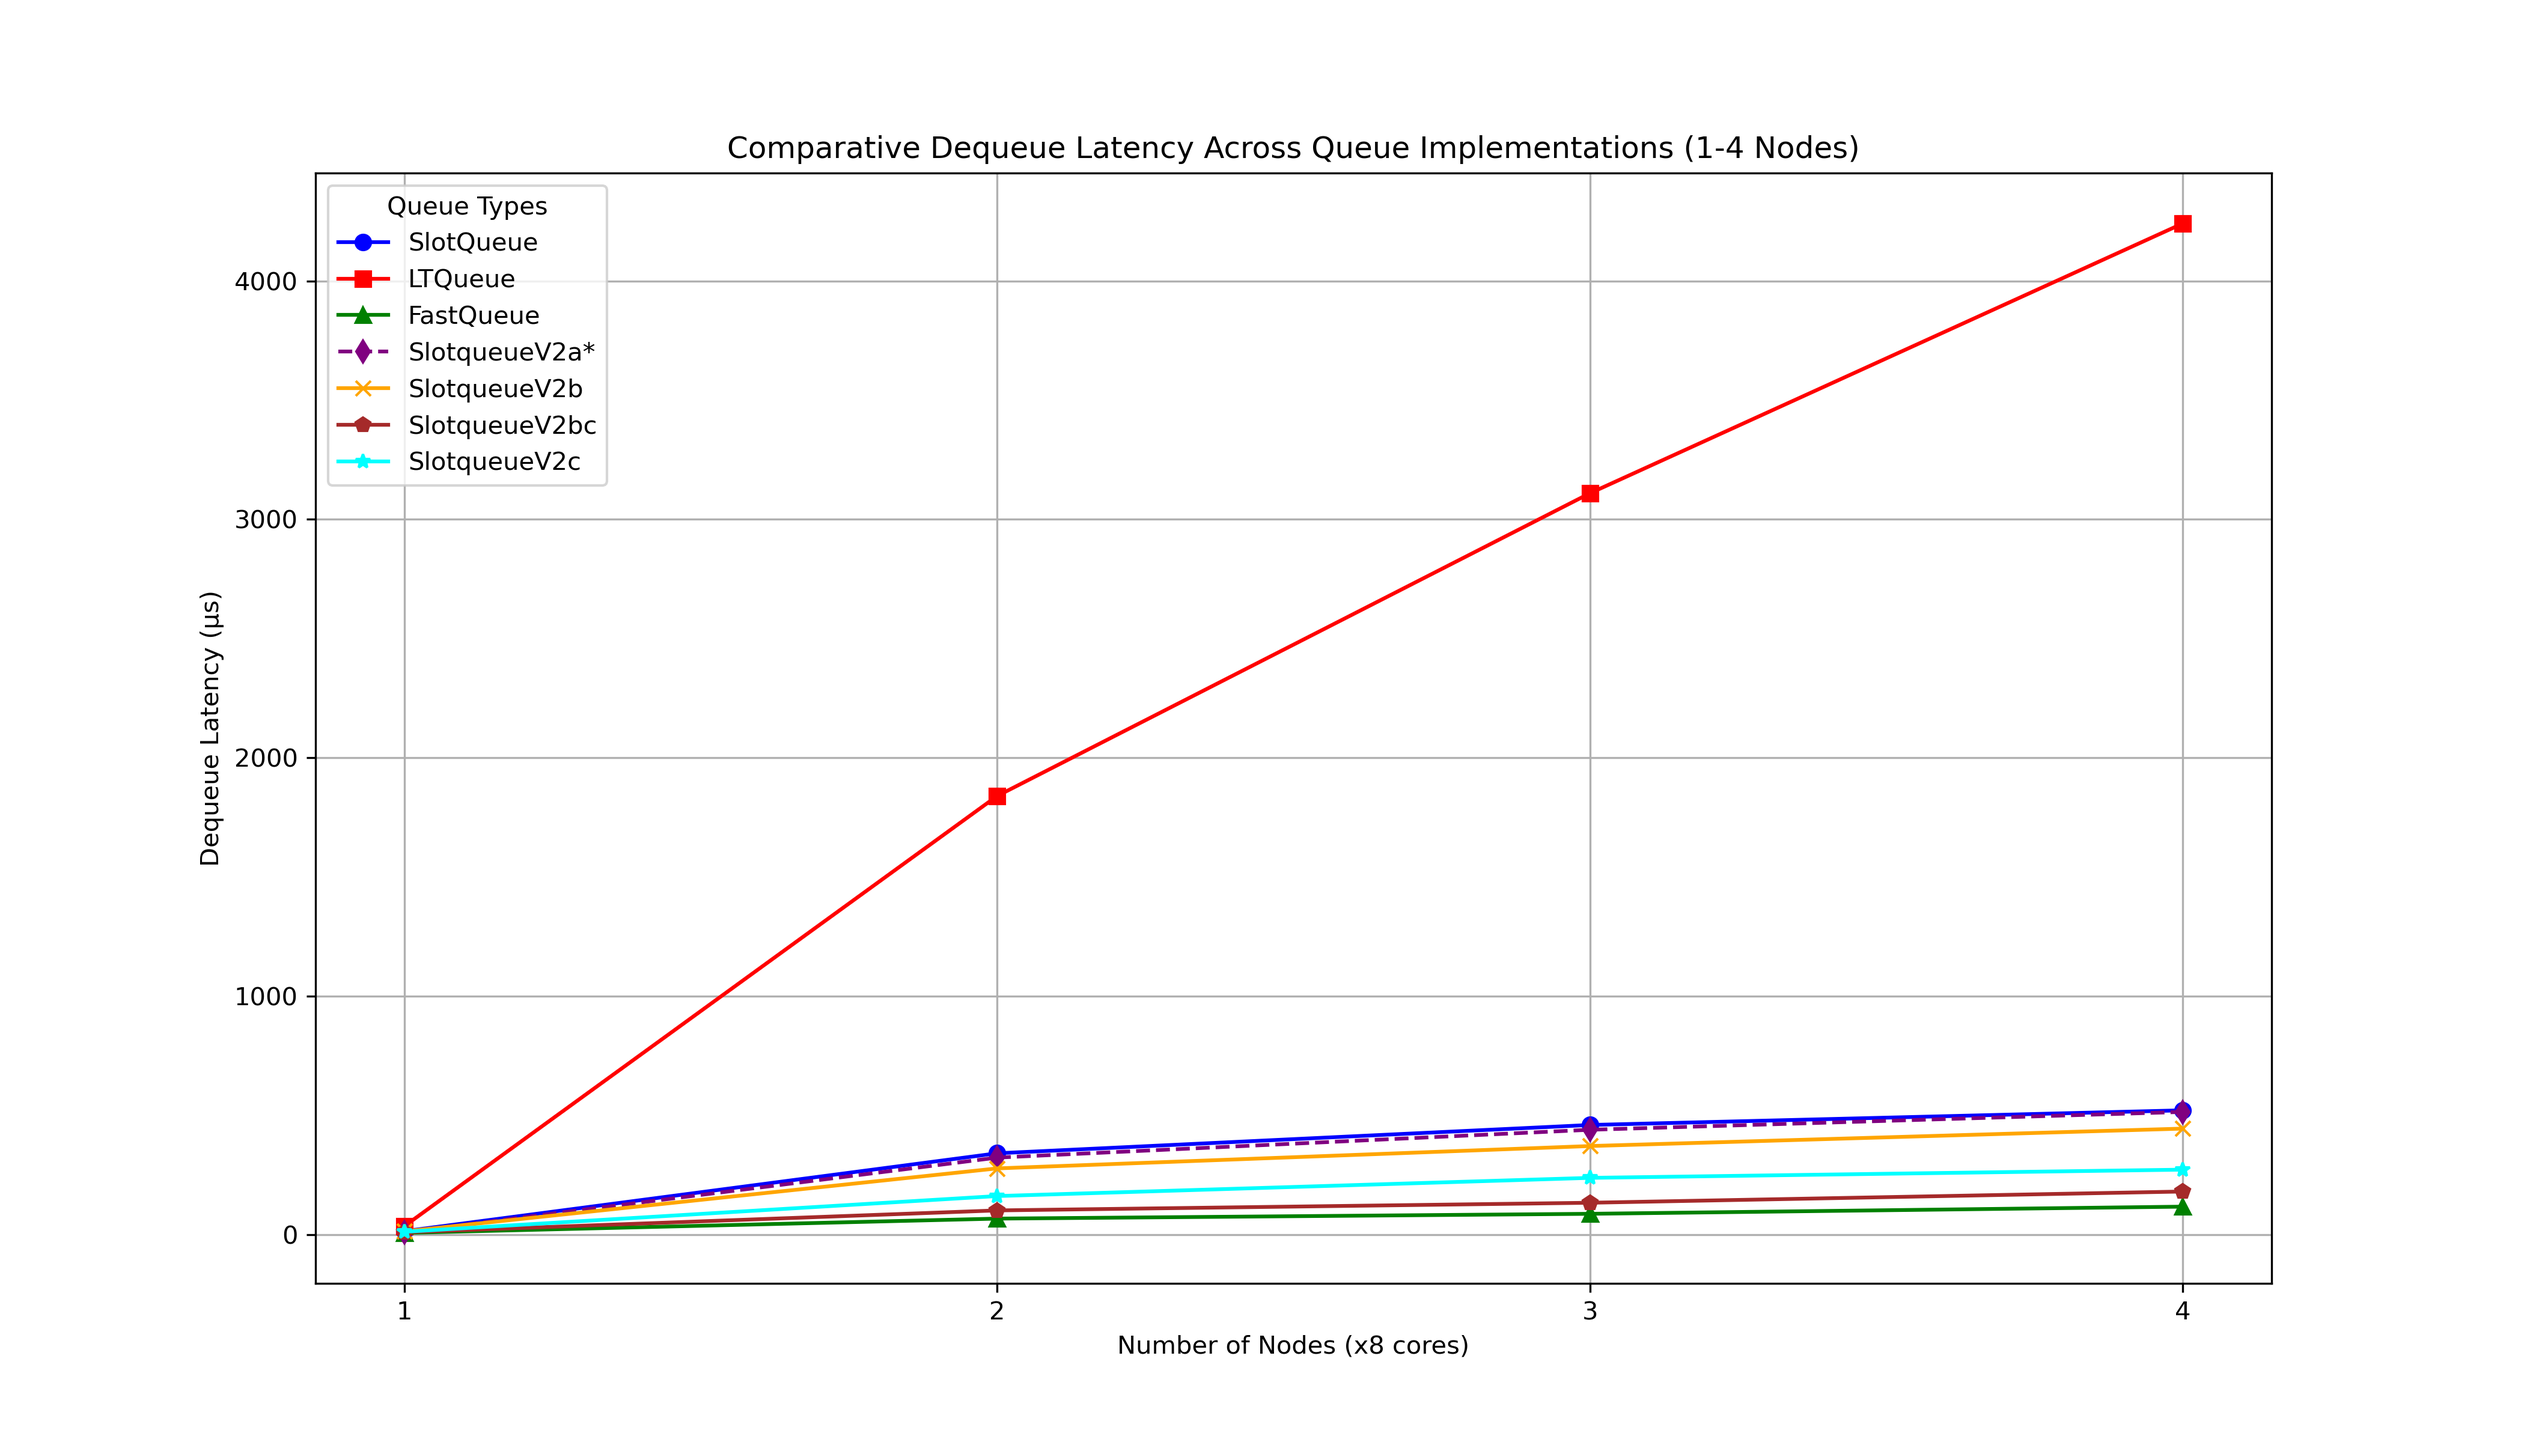
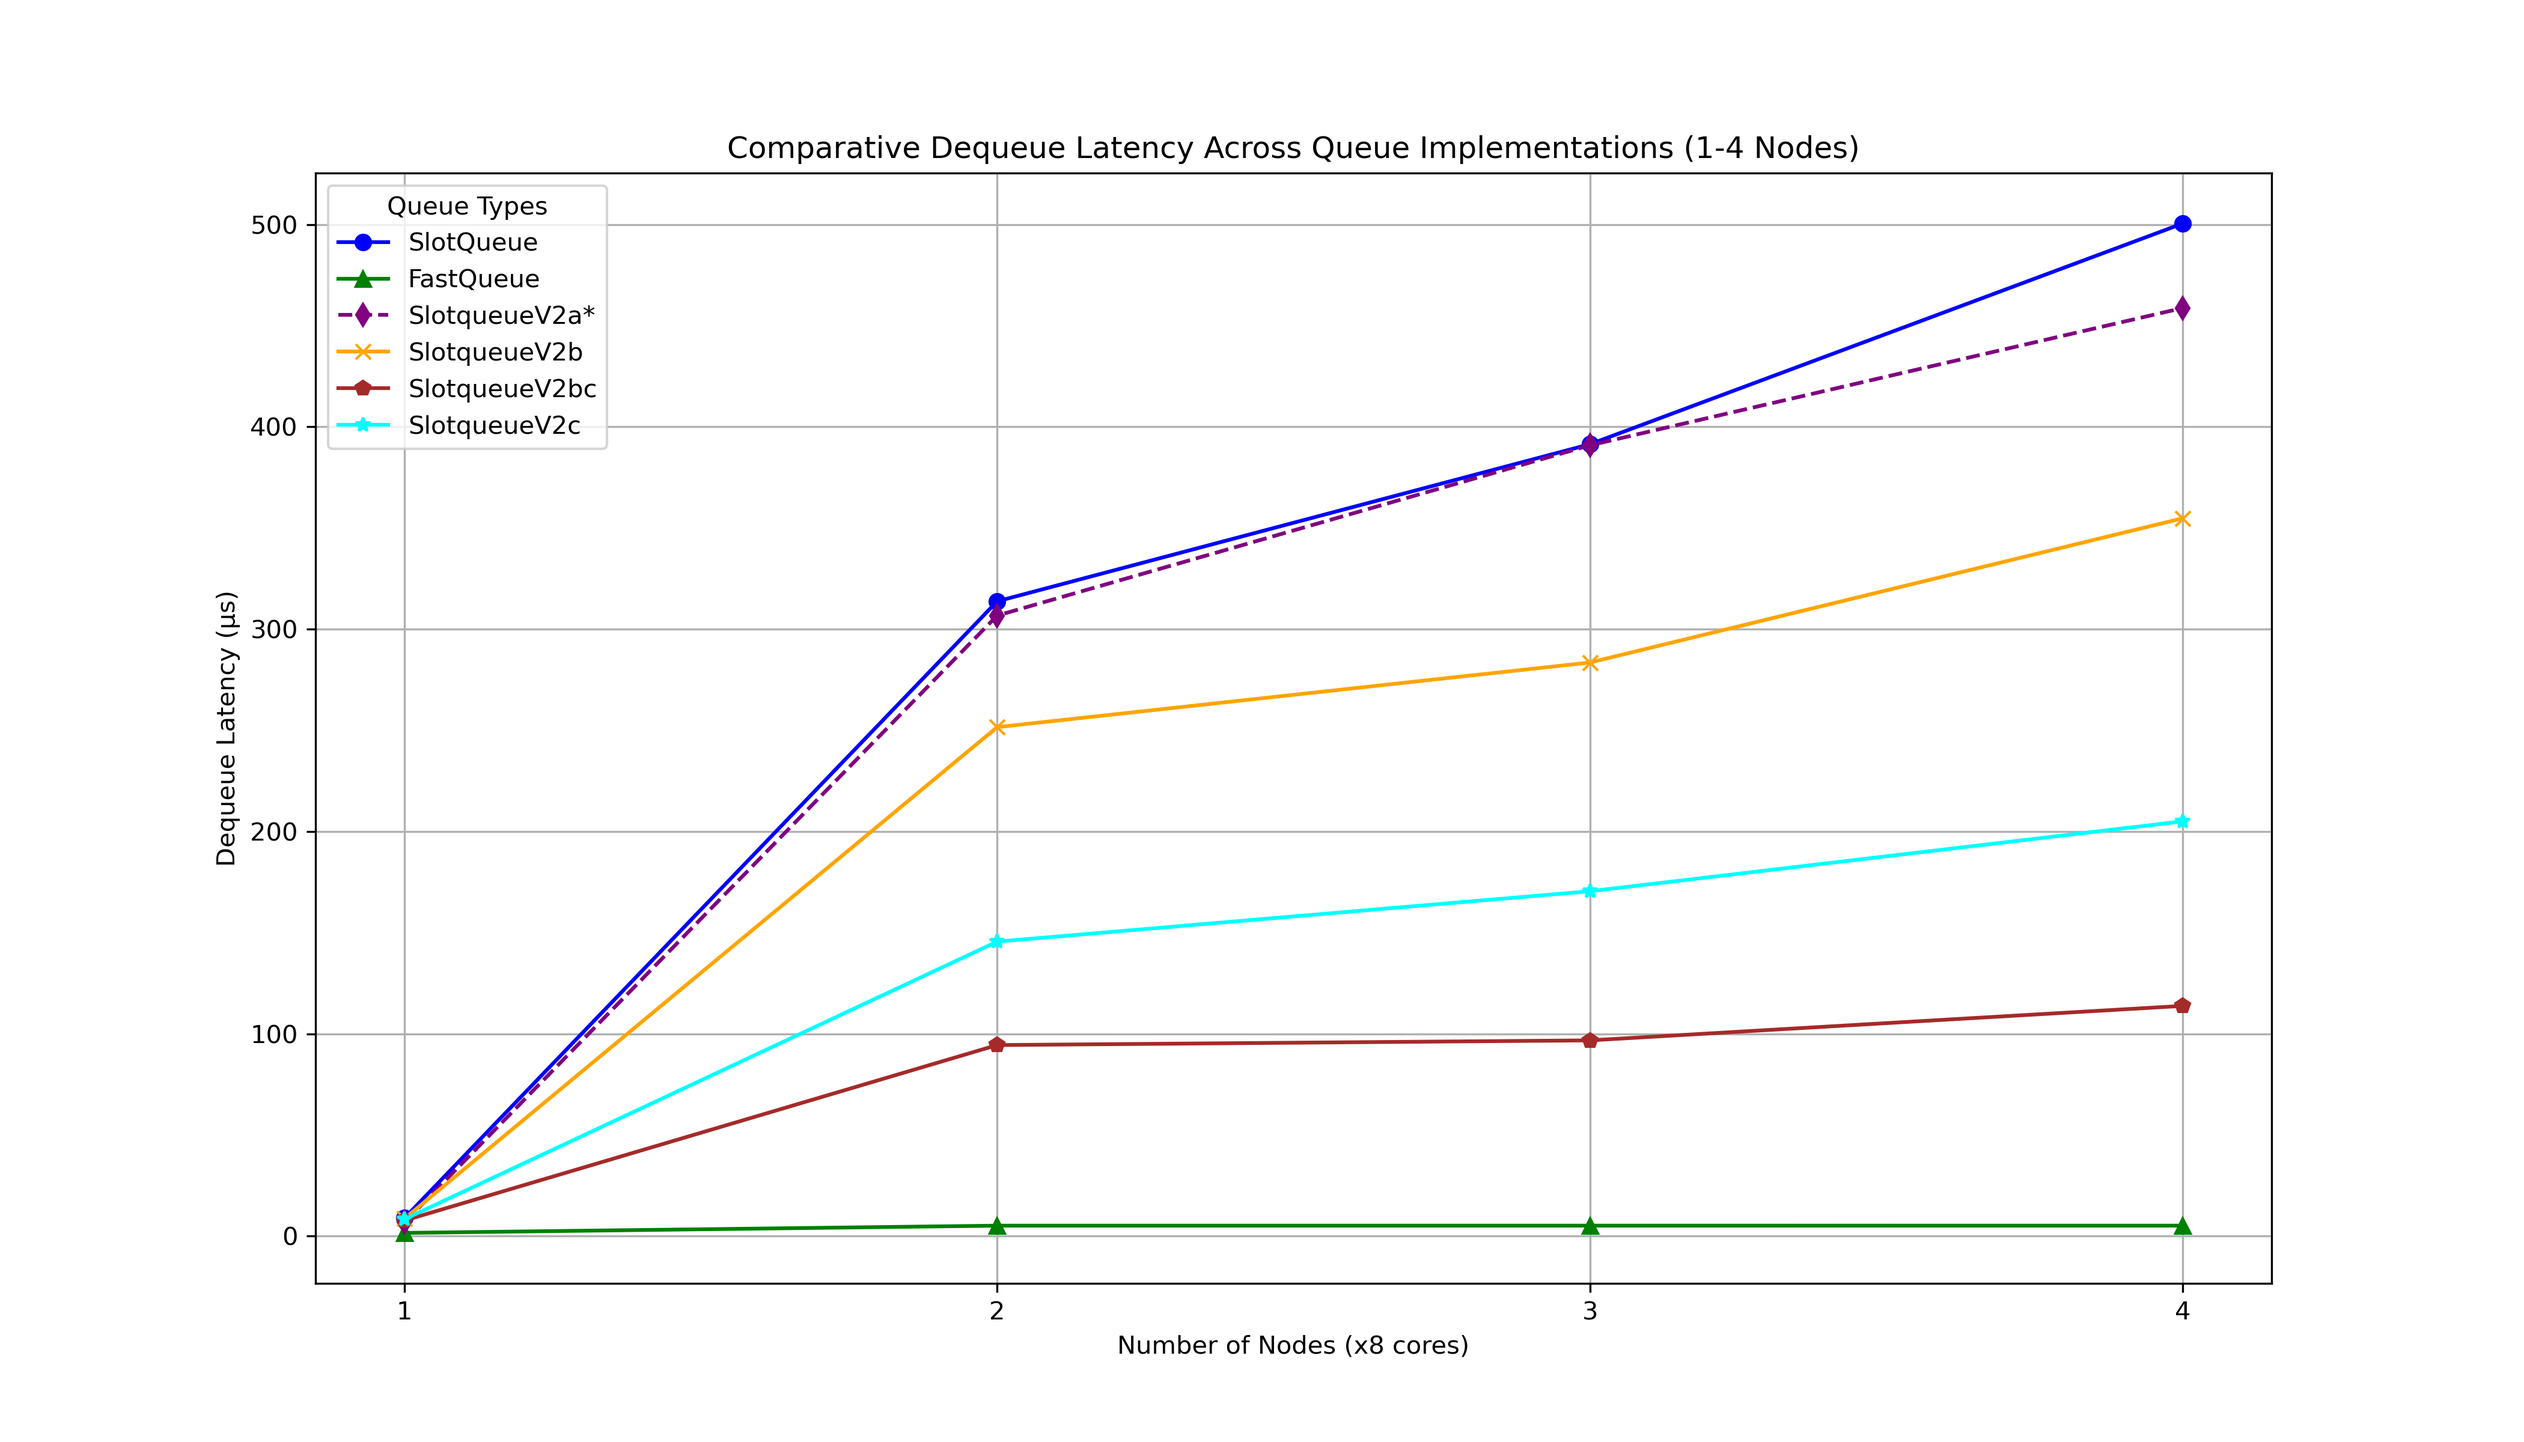
bench: fix fastqueue non-rdma-cluster benchmark

diff --git a/benches/microbenchmarks/single-one-queue/non-rdma-cluster/by-nodes.py b/benches/microbenchmarks/single-one-queue/non-rdma-cluster/by-nodes.py
@@ -4,60 +4,63 @@ import os
 # Ensure the output directory exists
 output_dir = "non-rdma-cluster/all/by-nodes"
 os.makedirs(output_dir, exist_ok=True)
+
 # Data for nodes and queue types
 nodes = [1, 2, 3, 4]
+
 # Data for different queues and metrics
 queue_data = {
     "SlotQueue": {
-        "dequeue_throughput": [],
-        "dequeue_latency": [],
-        "enqueue_throughput": [],
-        "enqueue_latency": [],
-        "total_throughput": [],
+        "dequeue_throughput": [1.12841, 0.0318714, 0.025549, 0.0199796],
+        "dequeue_latency": [8.862, 313.761, 391.404, 500.51],
+        "enqueue_throughput": [4.79747, 0.765893, 0.66733, 0.378026],
+        "enqueue_latency": [14.591, 195.85, 344.657, 820.048],
+        "total_throughput": [2.25796, 0.0639021, 0.0514047, 0.0404188],
     },
     "LTQueue": {
-        "dequeue_throughput": [],
-        "dequeue_latency": [],
-        "enqueue_throughput": [],
-        "enqueue_latency": [],
-        "total_throughput": [],
+        "dequeue_throughput": [0.424427, 0.00682855, 0.00541103, 0.00414144],
+        "dequeue_latency": [23.5612, 1464.44, 1848.08, 2414.62],
+        "enqueue_throughput": [0.970297, 0.0302003, 0.0251621, 0.0170012],
+        "enqueue_latency": [72.1429, 4966.83, 9140.75, 18234],
+        "total_throughput": [0.849278, 0.0136912, 0.010887, 0.00837814],
     },
     "FastQueue": {
-        "dequeue_throughput": [],
-        "dequeue_latency": [],
-        "enqueue_throughput": [],
-        "enqueue_latency": [],
-        "total_throughput": [],
+        "dequeue_throughput": [6.40287, 1.94303, 1.94182, 1.93633],
+        "dequeue_latency": [1.5618, 5.1466, 5.1498, 5.1644],
+        "enqueue_throughput": [4.26299, 0.54858, 0.437161, 0.340829],
+        "enqueue_latency": [16.4204, 273.433, 526.121, 909.546],
+        "total_throughput": [8.06712, 0.58171, 0.588145, 0.512203],
     },
     "SlotqueueV2a": {
-        "dequeue_throughput": [],
-        "dequeue_latency": [],
-        "enqueue_throughput": [],
-        "enqueue_latency": [],
-        "total_throughput": [],
+        "dequeue_throughput": [1.47859, 0.0326036, 0.0255839, 0.0217996],
+        "dequeue_latency": [6.7632, 306.714, 390.871, 458.725],
+        "enqueue_throughput": [4.61825, 0.822099, 0.618566, 0.476086],
+        "enqueue_latency": [15.1572, 182.46, 371.828, 651.143],
+        "total_throughput": [2.95866, 0.0653703, 0.0514748, 0.0441005],
     },
     "SlotqueueV2b": {
-        "dequeue_throughput": [],
-        "dequeue_latency": [],
-        "enqueue_throughput": [],
-        "enqueue_latency": [],
-        "total_throughput": [],
+        "dequeue_throughput": [1.16444, 0.0397495, 0.0352721, 0.0281847],
+        "dequeue_latency": [8.5878, 251.575, 283.51, 354.803],
+        "enqueue_throughput": [3.99715, 0.297802, 0.258851, 0.18849],
+        "enqueue_latency": [17.5125, 503.691, 888.544, 1644.65],
+        "total_throughput": [2.33005, 0.0796978, 0.0709675, 0.0570176],
     },
     "SlotqueueV2bc": {
-        "dequeue_throughput": [],
-        "dequeue_latency": [],
-        "enqueue_throughput": [],
-        "enqueue_latency": [],
-        "total_throughput": [],
+        "dequeue_throughput": [1.30191, 0.105914, 0.103376, 0.0878917],
+        "dequeue_latency": [7.681, 94.4166, 96.7338, 113.776],
+        "enqueue_throughput": [3.95019, 0.29763, 0.244308, 0.177258],
+        "enqueue_latency": [17.7207, 503.982, 941.435, 1748.87],
+        "total_throughput": [2.60513, 0.212357, 0.207993, 0.177805],
     },
     "SlotqueueV2c": {
-        "dequeue_throughput": [],
-        "dequeue_latency": [],
-        "enqueue_throughput": [],
-        "enqueue_latency": [],
-        "total_throughput": [],
+        "dequeue_throughput": [1.20337, 0.068702, 0.058669, 0.0487821],
+        "dequeue_latency": [8.31, 145.556, 170.448, 204.993],
+        "enqueue_throughput": [4.50501, 0.768201, 0.664723, 0.534115],
+        "enqueue_latency": [15.5383, 195.261, 346.009, 580.399],
+        "total_throughput": [2.40794, 0.137747, 0.118042, 0.0986861],
     },
 }
+
 # Metrics to plot
 metrics = [
     "dequeue_throughput",
@@ -66,6 +69,7 @@ metrics = [
     "enqueue_latency",
     "total_throughput",
 ]
+
 # Metric labels and units
 metric_labels = {
     "dequeue_throughput": ("Dequeue Throughput", "10^5 ops/s"),
@@ -74,6 +78,7 @@ metric_labels = {
     "enqueue_latency": ("Enqueue Latency", "μs"),
     "total_throughput": ("Total Throughput", "10^5 ops/s"),
 }
+
 # Color and marker styles for each queue
 queue_styles = {
     "SlotQueue": {"color": "blue", "marker": "o"},
@@ -84,10 +89,12 @@ queue_styles = {
     "SlotqueueV2bc": {"color": "brown", "marker": "p"},
     "SlotqueueV2c": {"color": "cyan", "marker": "*"},
 }
+
 # Generate merged plots for each metric
 for metric in metrics:
     # Create a new figure for each metric
     plt.figure(figsize=(12, 7))
+
     # Plot data for each queue
     for queue_name, queue_metrics in queue_data.items():
         style = queue_styles[queue_name]
@@ -99,11 +106,13 @@ for metric in metrics:
             linestyle=style.get("linestyle", "-"),
             label=f"{queue_name}{'*' if queue_name == 'SlotqueueV2a' else ''}",
         )
+
     # Set title and labels
     title, unit = metric_labels[metric]
     plt.title(f"Comparative {title} Across Queue Implementations")
     plt.xlabel("Number of Nodes (x8 cores)")
     plt.ylabel(f"{title} ({unit})")
+
     # Add grid and legend
     plt.grid(True)
     plt.legend(title="Queue Types", loc="best")
@@ -115,12 +124,14 @@ for metric in metrics:
     filename = f"{output_dir}/{metric}_comparison.png"
     plt.savefig(filename)
     plt.close()  # Close the figure to free up memory
+
 print(
     "All comparative plots have been generated in the 'non-rdma-cluster/all/by-nodes' folder."
 )
 print(
     "Note: SlotqueueV2a is marked with an asterisk (*) in the legend to indicate it is experimental."
 )
+
 # Ensure the output directory exists
 output_dir = "non-rdma-cluster/no-ltqueue/by-nodes/"
 os.makedirs(output_dir, exist_ok=True)
@@ -132,7 +143,7 @@ for metric in metrics:
 
     # Plot data for each queue
     for queue_name, queue_metrics in queue_data.items():
-        if queue_name != "LTQueue + baseline SPSC":
+        if queue_name != "LTQueue":  # Exclude LTQueue for this set of plots
             style = queue_styles[queue_name]
             plt.plot(
                 nodes,
